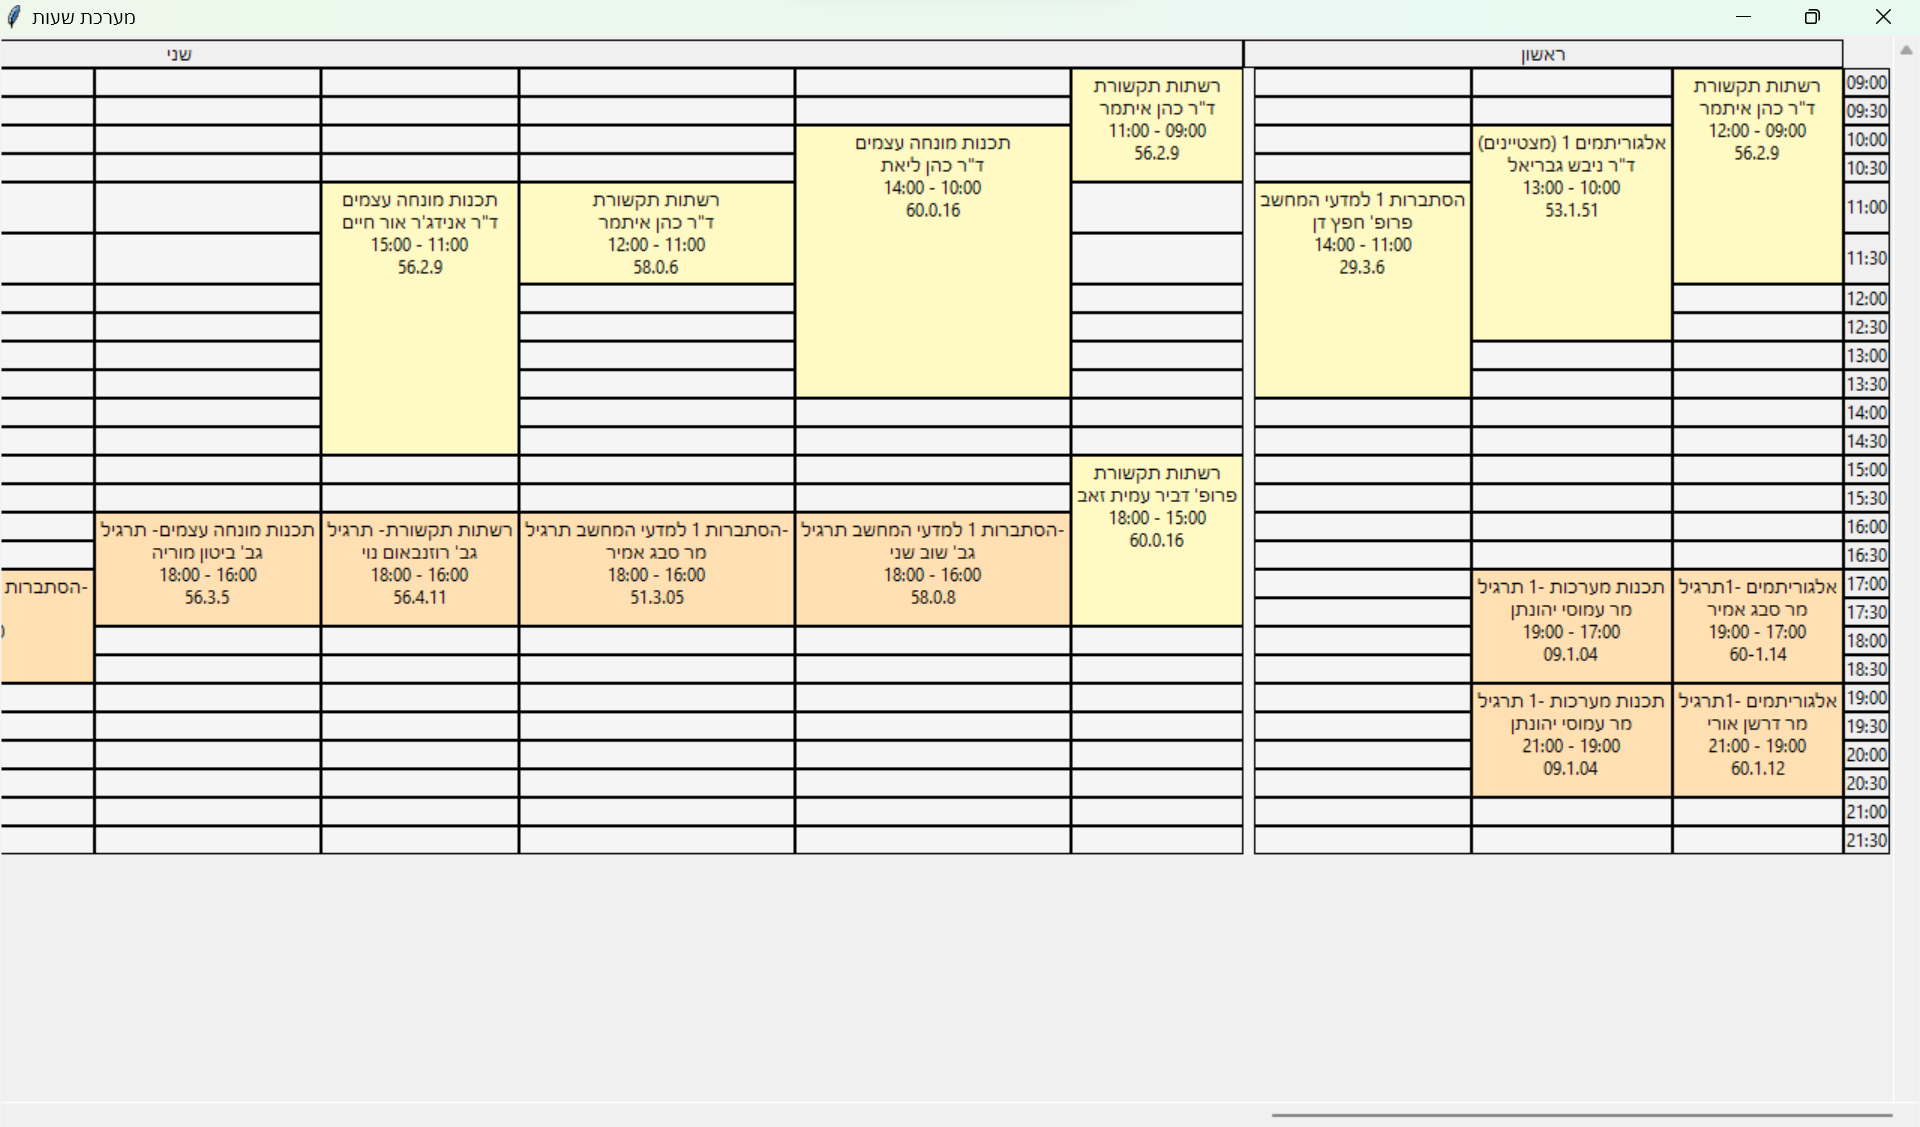
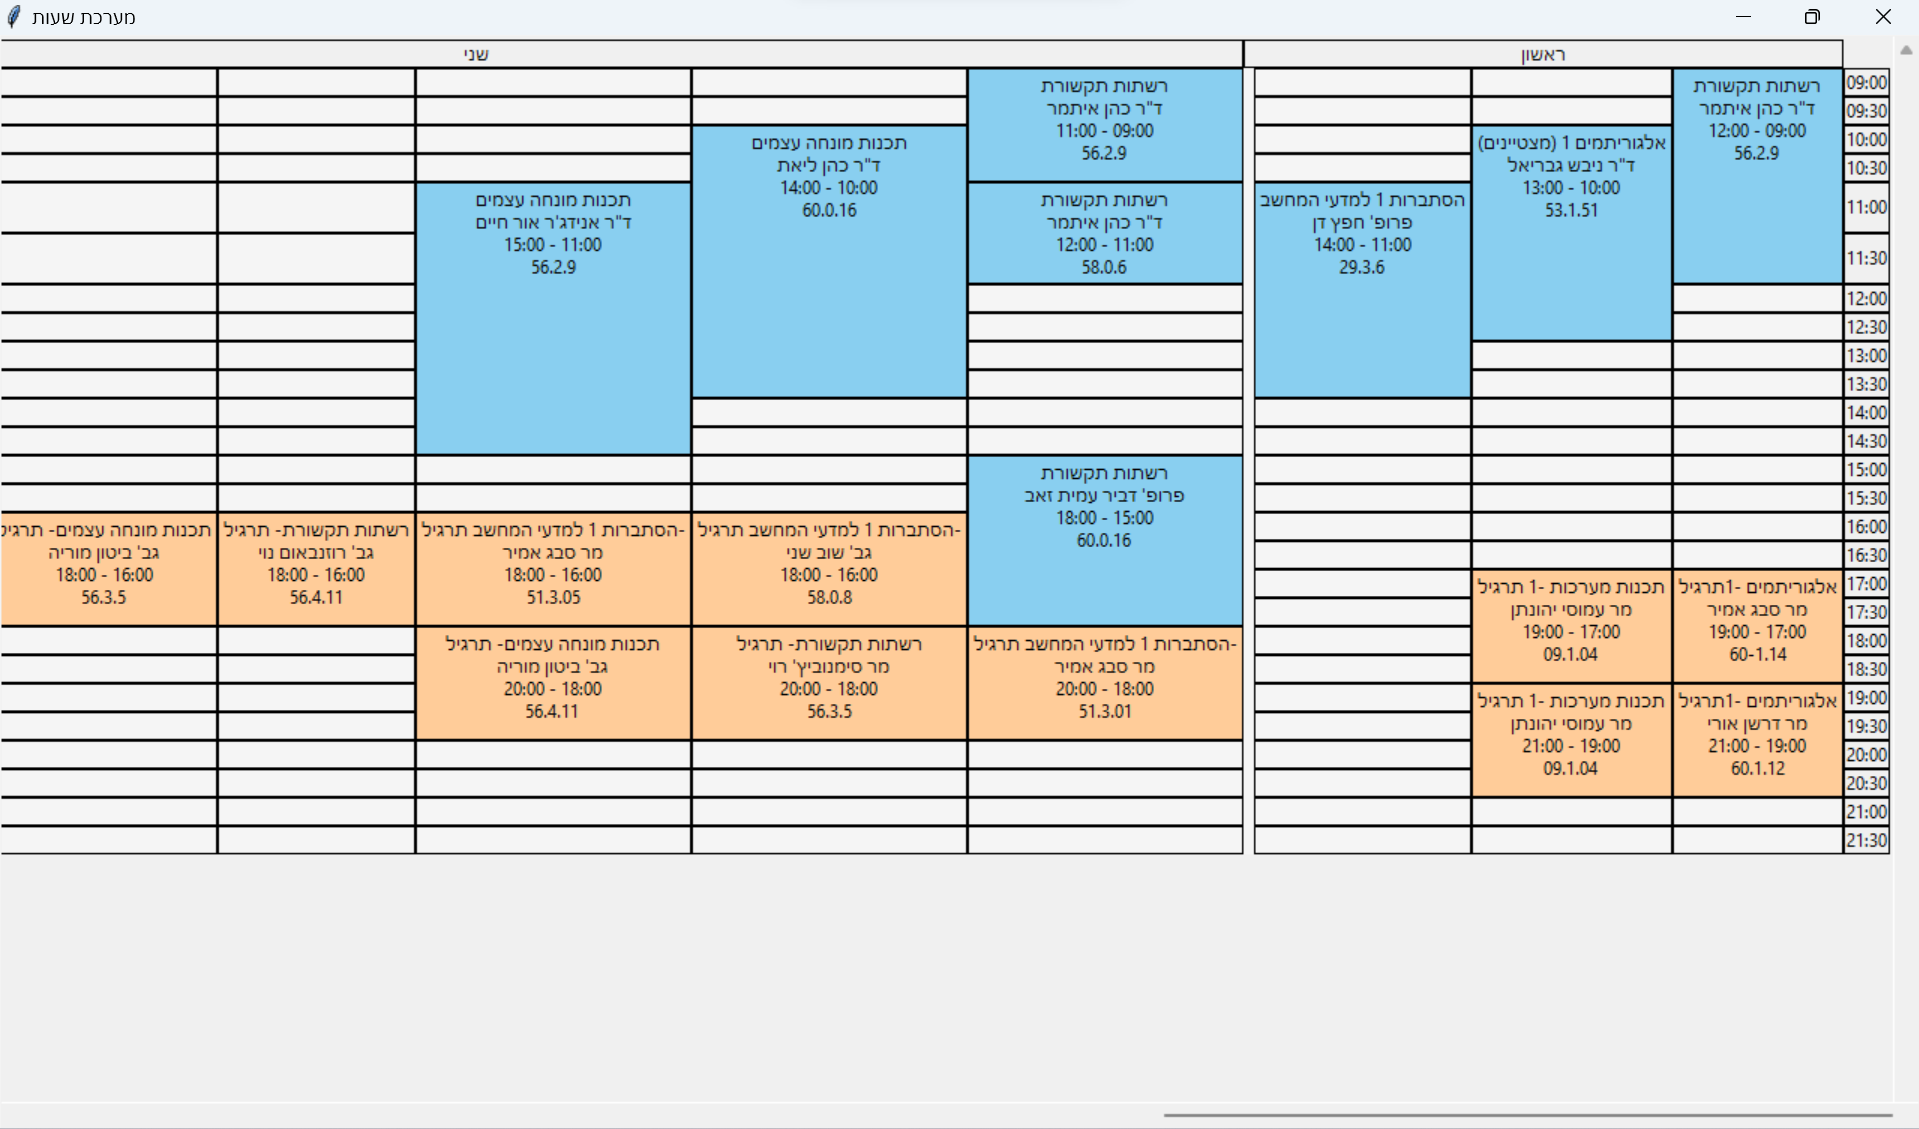
update

diff --git a/main.py b/main.py
@@ -12,8 +12,8 @@ NUMBER_OF_COLUMNS = 10
 
 HOURLY_INTERVAL = 30
 
-LECTURE_BG_COLOR = "#FFF9C4"
-PRACTICE_BG_COLOR = "#FFE0B2"
+LECTURE_BG_COLOR = "#89CFF0"
+PRACTICE_BG_COLOR = "#FFCC99"
 EMPTY_BG_COLOR = "#F5F5F5"
 
 # days = ["ו", "ה", "ד", "ג", "ב", "א"]
